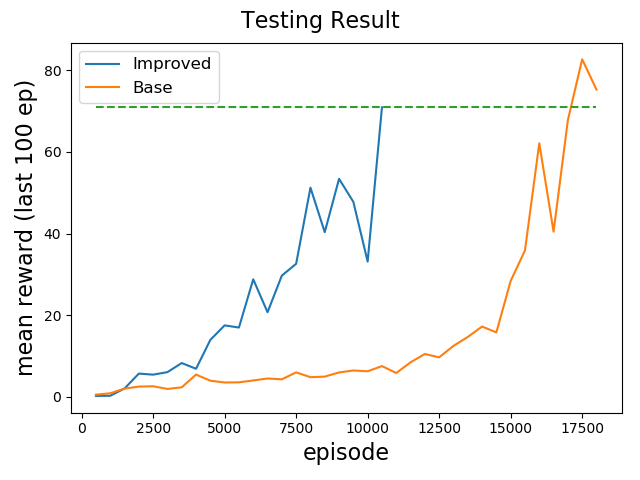
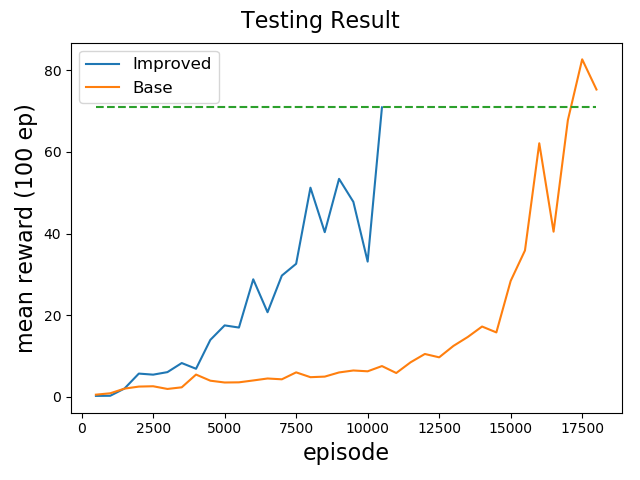
Modify y_label

Changed region(s): [[0.0, 0.1562, 0.0625, 0.7812]]

diff --git a/hw4/draw4-2.py b/hw4/draw4-2.py
@@ -25,7 +25,7 @@ axes.plot(x_axis2, improved_dqn, label = "Improved")
 axes.plot(x_axis1, base_dqn, label = "Base")
 axes.plot(x_axis1, base_line, '--')
 axes.set_xlabel("episode", fontsize=16)
-axes.set_ylabel("mean reward (last 100 ep)", fontsize=16)
+axes.set_ylabel("mean reward (100 ep)", fontsize=16)
 axes.legend(loc = 'best', fontsize=12)
 fig1.suptitle('Testing Result', fontsize=16)
 fig1.tight_layout(rect=[0, 0, 1, 0.95])
